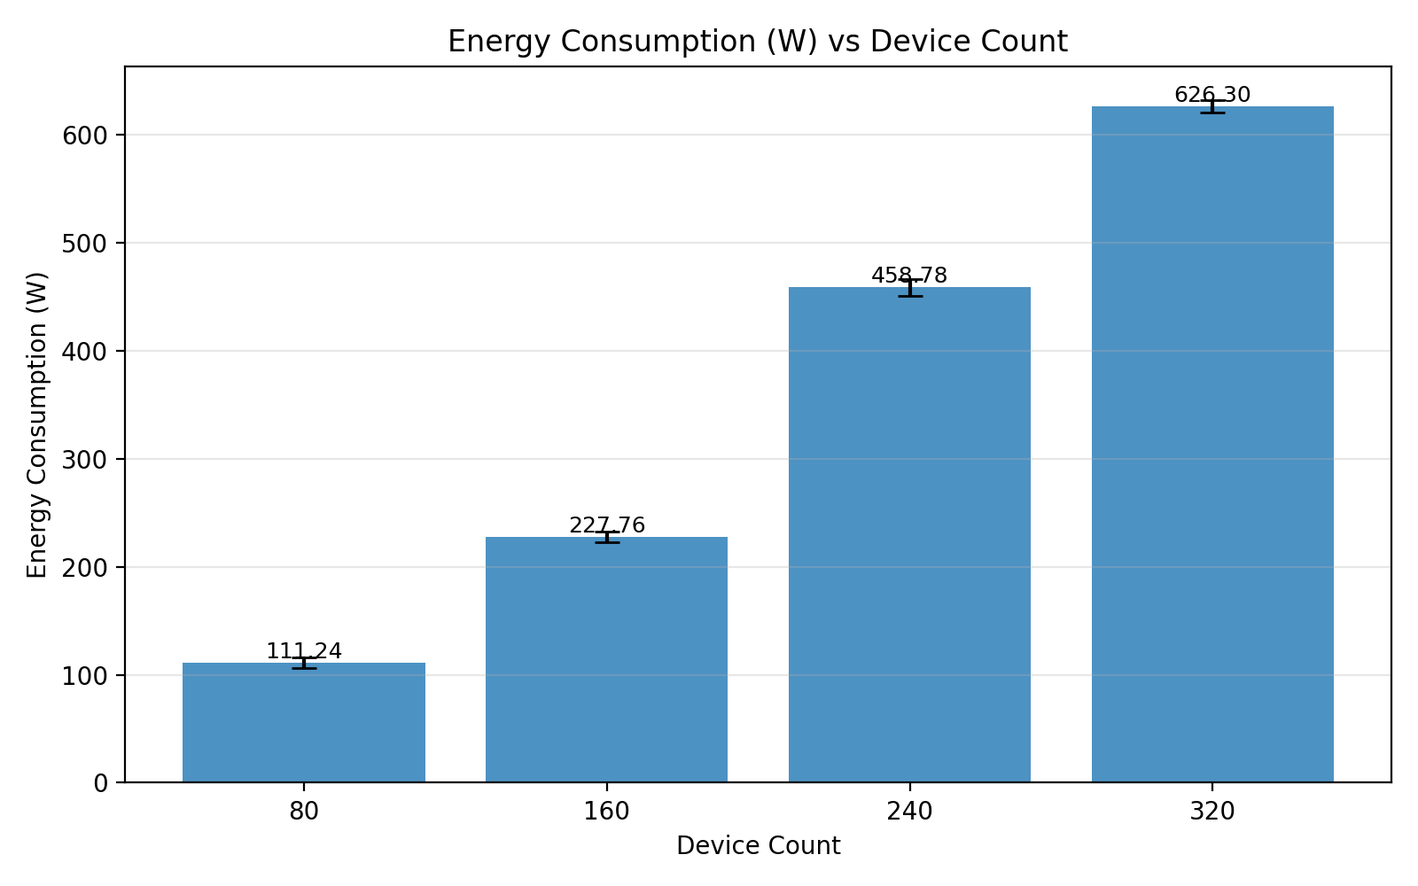
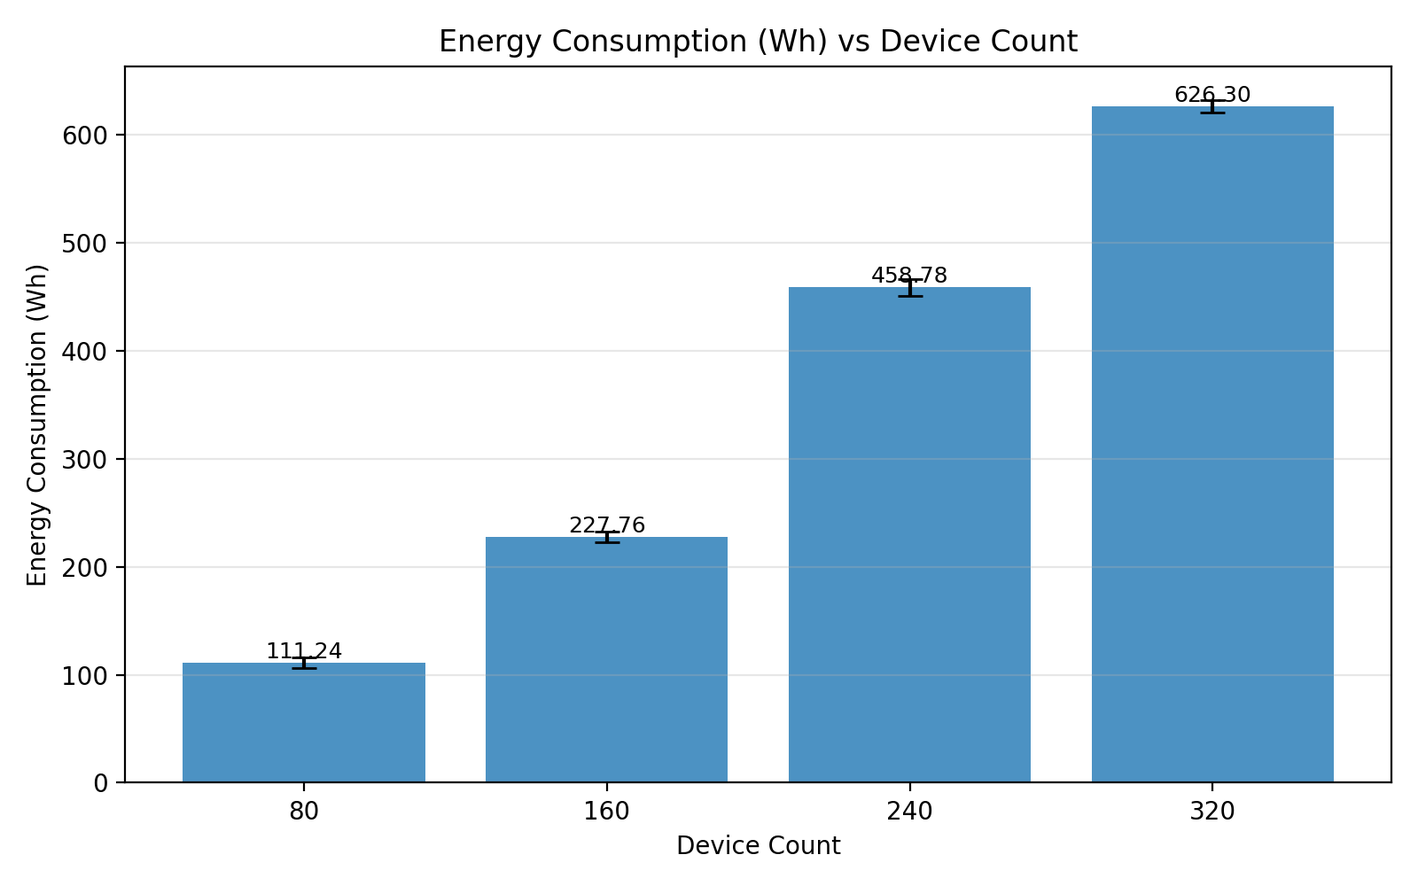
统一能量单位Wh

Changed region(s): [[0.3125, 0.031, 0.7812, 0.062], [0.0, 0.31, 0.0312, 0.651]]

diff --git a/EE5003_Report/contents/result.tex b/EE5003_Report/contents/result.tex
@@ -26,7 +26,7 @@ The full training trajectory is shown in \Figref{fig:mappo-training-progress}. B
     \small
     \begin{tabular}{c|cccc}
         \hline
-        \textbf{Episode} & Success (\%) & Avg. Total Time (s) & Energy (W) & Delay Failures \\
+        \textbf{Episode} & Success (\%) & Avg. Total Time (s) & Energy (Wh) & Delay Failures \\
         \hline
         1  & 57.85 & 5.0108 & 187.1040 & 28193 \\
         5  & 91.96 & 5.0888 & 221.2397 & 5313 \\
@@ -41,7 +41,7 @@ The full training trajectory is shown in \Figref{fig:mappo-training-progress}. B
 \end{table}
 
 \paragraph{Evaluation behavior across seeds.}
-The final MAPPO checkpoint was evaluated on three seeds: 9001, 9002, and 9003. The corresponding success rates are \(99.8901\%\), \(99.9390\%\), and \(99.9421\%\), respectively. The three-seed mean success rate is \(99.9237\%\) with a standard deviation of \(0.0238\). The mean average total time is \(4.5284\,\mathrm{s}\), and the mean energy consumption is \(227.6360\,\mathrm{W}\). These metrics indicate strong cross-seed robustness within the tested setting.
+The final MAPPO checkpoint was evaluated on three seeds: 9001, 9002, and 9003. The corresponding success rates are \(99.8901\%\), \(99.9390\%\), and \(99.9421\%\), respectively. The three-seed mean success rate is \(99.9237\%\) with a standard deviation of \(0.0238\). The mean average total time is \(4.5284\,\mathrm{s}\), and the mean energy consumption is \(227.6360\,\mathrm{Wh}\). These metrics indicate strong cross-seed robustness within the tested setting.
 
 \begin{table}[htbp]
     \centering
@@ -93,7 +93,7 @@ The destination and PRB breakdowns in \Figref{fig:mappo-standard-actions} show t
 \paragraph{Reward and energy analysis.}
 The remaining seed-level charts explain why the converged MAPPO policy remains stable. On the representative seed 9001, the runtime average reward in \Figref{fig:mappo-standard-reward} rises quickly after initialization and then stays tightly clustered around \(4.4\text{--}4.5\), while the exponential moving average remains nearly flat for the rest of the episode. The limited downward fluctuations do not accumulate over time, indicating that unsuccessful decisions are rare and do not destabilize the learned policy over the 30-minute horizon.
 
-The energy summary reported in \Tabref{tab:mappo-seed9001-energy} clarifies where the cost is incurred. For seed 9001, total energy consumption is \(233.0438\,\mathrm{W}\), of which \(223.4854\,\mathrm{W}\) comes from mist/local execution, \(8.9694\,\mathrm{W}\) from edge servers, and only \(0.5890\,\mathrm{W}\) from the cloud. The energy metric is therefore still dominated by the battery-powered device layer even though more than half of the tasks are offloaded to the cloud. In practical terms, cloud offloading mainly relieves deadline pressure, whereas overall energy efficiency is still governed by how many tasks remain on local devices and how aggressively uplink PRBs are reserved.
+The energy summary reported in \Tabref{tab:mappo-seed9001-energy} clarifies where the cost is incurred. For seed 9001, total energy consumption is \(233.0438\,\mathrm{Wh}\), of which \(223.4854\,\mathrm{Wh}\) comes from mist/local execution, \(8.9694\,\mathrm{Wh}\) from edge servers, and only \(0.5890\,\mathrm{Wh}\) from the cloud. The energy metric is therefore still dominated by the battery-powered device layer even though more than half of the tasks are offloaded to the cloud. In practical terms, cloud offloading mainly relieves deadline pressure, whereas overall energy efficiency is still governed by how many tasks remain on local devices and how aggressively uplink PRBs are reserved.
 
 \begin{figure}[htbp]
     \centering
@@ -107,12 +107,12 @@ The energy summary reported in \Tabref{tab:mappo-seed9001-energy} clarifies wher
     \small
     \renewcommand{\arraystretch}{1.15}
     \begin{tabularx}{0.92\textwidth}{l|c|X}
-        \textbf{Component} & \textbf{Energy (W)} & \textbf{Average} \\
+        \textbf{Component} & \textbf{Energy (Wh)} & \textbf{Average} \\
         \hline
-        Total & \(233.0438\) & \(1.4124\,\mathrm{W}\) per data center or device; \(0.0035\,\mathrm{W}\) per task \\
-        Cloud & \(0.5890\) & \(0.5890\,\mathrm{W}\) per data center \\
-        Edge & \(8.9694\) & \(2.2424\,\mathrm{W}\) per data center \\
-        Mist & \(223.4854\) & \(1.3968\,\mathrm{W}\) per edge device \\
+        Total & \(233.0438\) & \(1.4124\,\mathrm{Wh}\) per data center or device; \(0.0035\,\mathrm{Wh}\) per task \\
+        Cloud & \(0.5890\) & \(0.5890\,\mathrm{Wh}\) per data center \\
+        Edge & \(8.9694\) & \(2.2424\,\mathrm{Wh}\) per data center \\
+        Mist & \(223.4854\) & \(1.3968\,\mathrm{Wh}\) per edge device \\
     \end{tabularx}
     \caption{Energy summary for the representative evaluation seed 9001.}
     \label{tab:mappo-seed9001-energy}
@@ -178,7 +178,7 @@ To evaluate the scalability of the proposed MAPPO framework, a device-count abla
     \small
     \begin{tabular}{c|cccccc}
         \hline
-        \textbf{Devices} & \textbf{Decisions} & \textbf{Success (\%)} & \textbf{Time (s)} & \textbf{Energy (W)} & \textbf{Delay Fail} & \textbf{Reward} \\
+        \textbf{Devices} & \textbf{Decisions} & \textbf{Success (\%)} & \textbf{Time (s)} & \textbf{Energy (Wh)} & \textbf{Delay Fail} & \textbf{Reward} \\
         \hline
         80  & 33\,639  & 99.75 & 3.45 & 111.24 & 86    & 151\,057 \\
         160 & 67\,016  & 99.77 & 4.87 & 227.76 & 154   & 290\,588 \\
@@ -190,7 +190,7 @@ To evaluate the scalability of the proposed MAPPO framework, a device-count abla
     \label{tab:ablation-devices-eval}
 \end{table}
 
-From 80 to 240 devices, the per-agent reward remains consistently positive and the success rate stays above \(99.4\%\), indicating that MAPPO effectively coordinates an increasing number of agents without degrading individual decision quality. The total reward scales roughly in proportion to the number of decisions, confirming that each additional agent contributes positively. Average total time increases moderately from \(3.45\,\mathrm{s}\) to \(5.80\,\mathrm{s}\), which is expected as more agents compete for shared edge and cloud resources. Energy consumption also scales proportionally with device count, reflecting the additional mist-layer power draw from more active devices.
+From 80 to 240 devices, the per-agent reward remains consistently positive and the success rate stays above \(99.4\%\), indicating that MAPPO effectively coordinates an increasing number of agents without degrading individual decision quality. The total reward scales roughly in proportion to the number of decisions, confirming that each additional agent contributes positively. Average total time increases moderately from \(3.45\,\mathrm{s}\) to \(5.80\,\mathrm{s}\), which is expected as more agents compete for shared edge and cloud resources. Energy consumption also scales proportionally with device count, reflecting the additional mist-layer energy usage from more active devices.
 
 \Figref{fig:ablation-devices-success-time} visualizes the task success rate and average total time across device counts. The success rate remains flat near \(100\%\) for the first three configurations before dropping sharply at 320 devices, while the average total time increases gradually and then jumps at 320 devices.
 
@@ -231,7 +231,7 @@ The evidence for infrastructure saturation is visible in the learned policy's be
     \label{tab:ablation-devices-destination}
 \end{table}
 
-\Figref{fig:ablation-devices-energy-reward} shows the energy consumption and evaluation reward across device counts. Energy scales roughly linearly from 80 to 320 devices, reflecting the proportional increase in mist-layer power draw. The evaluation reward, however, turns sharply negative at 320 devices, confirming that the policy cannot generate net positive value when infrastructure capacity is exhausted.
+\Figref{fig:ablation-devices-energy-reward} shows the energy consumption and evaluation reward across device counts. Energy scales roughly linearly from 80 to 320 devices, reflecting the proportional increase in mist-layer energy usage. The evaluation reward, however, turns sharply negative at 320 devices, confirming that the policy cannot generate net positive value when infrastructure capacity is exhausted.
 
 \begin{figure}[h]
     \centering
@@ -265,7 +265,7 @@ Two controlled ablations were conducted under the same 40-episode, 30-minute, 16
     \renewcommand{\arraystretch}{1.15}
     \begin{tabular}{@{}lccccc@{}}
         \hline
-        \textbf{Variant} & \shortstack{\textbf{Success}\\\textbf{(\%)}} & \textbf{Std.} & \shortstack{\textbf{Total Time}\\\textbf{(s)}} & \shortstack{\textbf{Energy}\\\textbf{(W)}} & \shortstack{\textbf{Delay}\\\textbf{Failures}} \\
+        \textbf{Variant} & \shortstack{\textbf{Success}\\\textbf{(\%)}} & \textbf{Std.} & \shortstack{\textbf{Total Time}\\\textbf{(s)}} & \shortstack{\textbf{Energy}\\\textbf{(Wh)}} & \shortstack{\textbf{Delay}\\\textbf{Failures}} \\
         \hline
         MAPPO & \textbf{99.9237} & \textbf{0.0238} & 4.5284 & \textbf{227.6360} & \textbf{48.00} \\
         NoEmbedding & 99.8148 & 0.0245 & \textbf{4.4991} & 227.7301 & 123.00 \\
@@ -311,7 +311,7 @@ The representative seed-9001 charts in \Figref{fig:noembedding-run-summary}, \Fi
 \end{figure}
 
 \paragraph{FixedPRB: structural failure of the joint scheduler.}
-The FixedPRB ablation changes the outcome qualitatively. Training improves only from \(55.90\%\) to \(91.52\%\) success across the 40 episodes and plateaus there rather than entering the near-perfect regime. In evaluation, mean success collapses to \(92.3822\%\), mean energy jumps to \(309.2645\,\mathrm{W}\), and mean delay failures rise to \(5127.67\). Unlike NoEmbedding, this is not a small regularization effect; it is a direct loss of scheduling capability. The simulator also becomes much faster to run at \(145.41\,\mathrm{s}\) per episode on average, but this speedup is associated with a simpler yet substantially poorer operating regime.
+The FixedPRB ablation changes the outcome qualitatively. Training improves only from \(55.90\%\) to \(91.52\%\) success across the 40 episodes and plateaus there rather than entering the near-perfect regime. In evaluation, mean success collapses to \(92.3822\%\), mean energy jumps to \(309.2645\,\mathrm{Wh}\), and mean delay failures rise to \(5127.67\). Unlike NoEmbedding, this is not a small regularization effect; it is a direct loss of scheduling capability. The simulator also becomes much faster to run at \(145.41\,\mathrm{s}\) per episode on average, but this speedup is associated with a simpler yet substantially poorer operating regime.
 
 The representative seed-9001 charts in \Figref{fig:fixedprb-run-summary}, \Figref{fig:fixedprb-reward}, and \Figref{fig:fixedprb-actions} reveal the mechanism. The run-summary chart is dominated by the failed-delay bar, and the reward timeline becomes highly oscillatory with dense negative excursions, showing that bad decisions are frequent throughout the episode rather than confined to a few isolated events. The destination distribution also collapses to a two-way split: \(43.37\%\) local and \(42.29\%\) cloud, with the four edge nodes together receiving only \(14.35\%\) of selections. Most decisively, the PRB distribution degenerates to a single point mass, with \(100\%\) of offloaded tasks using \(10\) blocks by construction. Read against the full MAPPO seed-9001 distribution, this is a strong restriction: the learned policy normally uses \(1\) block for most offloads and expands to \(10\) or \(20\) blocks only when needed. Fixing every offloaded task at \(10\) blocks therefore creates a systematic mismatch, being too conservative for hard transfers and too wasteful for easy ones. The result is a system that underuses edge resources, overconsumes mist energy, and accumulates thousands of deadline misses even though fallback, mobility, and network failures remain at zero.
 
@@ -419,9 +419,9 @@ Taken together, the ablations identify adaptive PRB control as the dominant cont
 \subsection{Comparison between Reinforcement Learning and Baseline Algorithms}
 \label{subsec:rl-vs-baselines}
 
-The offline all-algorithm comparison shows that the reinforcement-learning policies outperform the heuristic baselines under the standard 160-device setting. MAPPO achieves the highest task success rate at \(99.96\%\), followed closely by PPO at \(99.94\%\). The strongest heuristic remains ROUND\_ROBIN at \(90.39\%\), which is still far below both learned policies. These gains are not obtained simply by spending more energy: MAPPO and PPO both use about \(231.3\,\mathrm{W}\), which is substantially lower than ROUND\_ROBIN's \(298.26\,\mathrm{W}\).
+The offline all-algorithm comparison shows that the reinforcement-learning policies outperform the heuristic baselines under the standard 160-device setting. MAPPO achieves the highest task success rate at \(99.96\%\), followed closely by PPO at \(99.94\%\). The strongest heuristic remains ROUND\_ROBIN at \(90.39\%\), which is still far below both learned policies. These gains are not obtained simply by spending more energy: MAPPO and PPO both use about \(231.3\,\mathrm{Wh}\), which is substantially lower than ROUND\_ROBIN's \(298.26\,\mathrm{Wh}\).
 
-\Tabref{tab:baseline-comparison} lists the main metrics for all 10 algorithms, while \Figref{fig:baseline-comparison} visualizes the same comparison. Several patterns are worth emphasizing. First, MAPPO improves success rate by \(9.58\) percentage points over ROUND\_ROBIN while also reducing average total time by \(1.2750\,\mathrm{s}\) and energy consumption by \(67.00\,\mathrm{W}\). Second, compared with PPO, MAPPO is slightly more reliable and slightly lower in energy, whereas PPO is slightly faster in average total time by \(0.0670\,\mathrm{s}\). Third, CLOUD appears attractive in latency and energy, yet its success rate remains only \(64.64\%\), so it is not a viable scheduling policy when completion reliability matters. Fourth, LOCAL fails mainly because 33,630 tasks cannot be executed under local-only capacity constraints, which highlights the need for coordinated multi-tier offloading.
+\Tabref{tab:baseline-comparison} lists the main metrics for all 10 algorithms, while \Figref{fig:baseline-comparison} visualizes the same comparison. Several patterns are worth emphasizing. First, MAPPO improves success rate by \(9.58\) percentage points over ROUND\_ROBIN while also reducing average total time by \(1.2750\,\mathrm{s}\) and energy consumption by \(67.00\,\mathrm{Wh}\). Second, compared with PPO, MAPPO is slightly more reliable and slightly lower in energy, whereas PPO is slightly faster in average total time by \(0.0670\,\mathrm{s}\). Third, CLOUD appears attractive in latency and energy, yet its success rate remains only \(64.64\%\), so it is not a viable scheduling policy when completion reliability matters. Fourth, LOCAL fails mainly because 33,630 tasks cannot be executed under local-only capacity constraints, which highlights the need for coordinated multi-tier offloading.
 
 \begin{table}[htbp]
     \centering
@@ -429,7 +429,7 @@ The offline all-algorithm comparison shows that the reinforcement-learning polic
     \resizebox{\textwidth}{!}{%
     \begin{tabular}{l|cccccc}
         \hline
-        \textbf{Algorithm} & \textbf{Success (\%)} & \textbf{Avg.\ Total Time (s)} & \textbf{Energy (W)} & \textbf{Delay Failures} & \textbf{Avg.\ CPU (\%)} & \textbf{Avg.\ BW (Mbps)} \\
+        \textbf{Algorithm} & \textbf{Success (\%)} & \textbf{Avg.\ Total Time (s)} & \textbf{Energy (Wh)} & \textbf{Delay Failures} & \textbf{Avg.\ CPU (\%)} & \textbf{Avg.\ BW (Mbps)} \\
         \hline
         RANDOM            & 41.05 & 4.5641 & 149.39 & 39\,630 &  6.56 & 50.79 \\
         LOCAL             & 45.36 & 7.3408 & 256.77 &  3\,133 & 41.03 & --    \\
@@ -602,7 +602,7 @@ PPO deserves one final note as the strongest learning-based baseline in this stu
     \setlength{\tabcolsep}{4pt}
     \begin{tabular}{l|ccccc}
         \hline
-        \textbf{Model} & \textbf{Mean Success (\%)} & \textbf{Std.} & \textbf{Mean Time (s)} & \textbf{Mean Energy (W)} & \textbf{Train Time (s/ep)} \\
+        \textbf{Model} & \textbf{Mean Success (\%)} & \textbf{Std.} & \textbf{Mean Time (s)} & \textbf{Mean Energy (Wh)} & \textbf{Train Time (s/ep)} \\
         \hline
         MAPPO & 99.9237 & 0.0238 & 4.5284 & 227.6360 & 227.74 \\
         PPO & 99.9436 & 0.0137 & 4.4665 & 227.5745 & 223.48 \\

diff --git a/EE5003_Report/regenerate_energy_figures.py b/EE5003_Report/regenerate_energy_figures.py
@@ -1,0 +1,158 @@
+from __future__ import annotations
+
+import csv
+import json
+import shutil
+import sys
+import tempfile
+from pathlib import Path
+from typing import Dict, Iterable, List
+
+import matplotlib
+
+matplotlib.use("Agg")
+import matplotlib.pyplot as plt
+import numpy as np
+
+
+ROOT = Path(__file__).resolve().parent.parent
+FIGURES_DIR = ROOT / "EE5003_Report" / "figures"
+MAPPO_DIR = ROOT / "PureEdgeSim" / "pruebas" / "mappo"
+if str(MAPPO_DIR) not in sys.path:
+    sys.path.insert(0, str(MAPPO_DIR))
+
+from analyze_mappo import analyze_episode
+
+
+def regenerate_all() -> None:
+    FIGURES_DIR.mkdir(parents=True, exist_ok=True)
+    _regenerate_analysis_energy_figure(
+        trajectory_path=ROOT
+        / "Results"
+        / "ablation_NoEmbedding"
+        / "trajectories"
+        / "mappo_trajectories_20260318_115419_532_pid88704_db7bc0.csv",
+        results_dir=ROOT / "Results" / "ablation_NoEmbedding" / "eval" / "base" / "seed_9001" / "episode_001",
+        target_path=FIGURES_DIR / "noembedding_energy_consumption.png",
+    )
+    _regenerate_analysis_energy_figure(
+        trajectory_path=ROOT
+        / "Results"
+        / "ablation_FixedPRB"
+        / "train_run_20260318_091806"
+        / "trajectories"
+        / "mappo_trajectories_20260318_105838_728_pid1084254_794451.csv",
+        results_dir=ROOT
+        / "Results"
+        / "ablation_FixedPRB"
+        / "train_run_20260318_091806"
+        / "eval"
+        / "base"
+        / "seed_9001"
+        / "episode_001",
+        target_path=FIGURES_DIR / "fixedprb_energy_consumption.png",
+    )
+    _regenerate_ablation_devices_energy_figure(
+        summary_path=ROOT / "Results" / "ablation_devices" / "comparison" / "ablation_results.json",
+        target_path=FIGURES_DIR / "ablation_devices_energy.png",
+    )
+    _regenerate_baseline_comparison_figure(
+        csv_path=ROOT / "Results" / "compare_2026-03-17_14-21-45" / "Sequential_simulation.csv",
+        target_path=FIGURES_DIR / "baseline_comparison_metrics.png",
+    )
+
+
+def _regenerate_analysis_energy_figure(trajectory_path: Path, results_dir: Path, target_path: Path) -> None:
+    if not trajectory_path.is_file():
+        raise FileNotFoundError(f"Trajectory not found: {trajectory_path}")
+    if not results_dir.is_dir():
+        raise FileNotFoundError(f"Results directory not found: {results_dir}")
+
+    with tempfile.TemporaryDirectory(prefix="paper_energy_") as tmp:
+        tmp_dir = Path(tmp)
+        analyze_episode(trajectory_path, results_dir, tmp_dir)
+        shutil.copyfile(tmp_dir / "energy_consumption.png", target_path)
+
+
+def _regenerate_ablation_devices_energy_figure(summary_path: Path, target_path: Path) -> None:
+    payload = json.loads(summary_path.read_text(encoding="utf-8"))
+    device_counts: List[int] = []
+    means: List[float] = []
+    stds: List[float] = []
+
+    for item in payload:
+        device_counts.append(int(item["device_count"]))
+        values = [float(seed["summary_metrics"]["energy_consumption_w"]) for seed in item["eval_summaries"]]
+        means.append(float(np.mean(values)) if values else 0.0)
+        stds.append(float(np.std(values)) if len(values) > 1 else 0.0)
+
+    fig, ax = plt.subplots(figsize=(8, 5))
+    x = np.arange(len(device_counts))
+    bars = ax.bar(x, means, yerr=stds, capsize=5, color="#1f77b4", alpha=0.8)
+    ax.set_xticks(x)
+    ax.set_xticklabels([str(count) for count in device_counts])
+    ax.set_xlabel("Device Count")
+    ax.set_ylabel("Energy Consumption (Wh)")
+    ax.set_title("Energy Consumption (Wh) vs Device Count")
+    ax.grid(True, axis="y", alpha=0.3)
+    for bar, mean in zip(bars, means):
+        ax.text(bar.get_x() + bar.get_width() / 2, bar.get_height(), f"{mean:.2f}", ha="center", va="bottom", fontsize=9)
+    fig.tight_layout()
+    fig.savefig(target_path, dpi=200)
+    plt.close(fig)
+
+
+def _regenerate_baseline_comparison_figure(csv_path: Path, target_path: Path) -> None:
+    rows = _read_rows(csv_path)
+    algorithm_order = [
+        "RANDOM",
+        "LOCAL",
+        "EDGE",
+        "CLOUD",
+        "ROUND_ROBIN",
+        "TRADE_OFF",
+        "LATENCY_ENERGY_AWARE",
+        "TEST",
+        "PPO",
+        "MAPPO",
+    ]
+    rows_by_algorithm = {row["Orchestration algorithm"].strip(): row for row in rows}
+    ordered_rows = [rows_by_algorithm[name] for name in algorithm_order]
+    labels = [row["Orchestration algorithm"].strip().replace("_", "\n") for row in ordered_rows]
+    success = [float(row["Tasks success rate"]) for row in ordered_rows]
+    total_time = [float(row["Average total time (s)"]) for row in ordered_rows]
+    energy = [float(row["Energy consumption (W)"]) for row in ordered_rows]
+    colors = ["#9aa5b1"] * 8 + ["#2ca02c", "#1f77b4"]
+
+    fig, axes = plt.subplots(1, 3, figsize=(14, 5))
+    metrics = [
+        ("Success Rate (%)", success),
+        ("Avg Total Time (s)", total_time),
+        ("Energy Consumption (Wh)", energy),
+    ]
+
+    for ax, (title, values) in zip(axes, metrics):
+        bars = ax.bar(np.arange(len(labels)), values, color=colors, alpha=0.9)
+        ax.set_title(title)
+        ax.set_xticks(np.arange(len(labels)))
+        ax.set_xticklabels(labels, rotation=40, ha="right")
+        ax.grid(True, axis="y", alpha=0.25)
+        ymax = max(values) if values else 0.0
+        for bar, value in zip(bars, values):
+            offset = max(0.4, ymax * 0.01)
+            fmt = f"{value:.2f}" if ymax < 1000 else f"{value:.0f}"
+            ax.text(bar.get_x() + bar.get_width() / 2, value + offset, fmt, ha="center", va="bottom", fontsize=8, rotation=90)
+
+    fig.tight_layout()
+    fig.savefig(target_path, dpi=200)
+    plt.close(fig)
+
+
+def _read_rows(csv_path: Path) -> List[Dict[str, str]]:
+    with csv_path.open("r", encoding="utf-8", newline="") as handle:
+        reader = csv.DictReader(handle)
+        return list(reader)
+
+
+if __name__ == "__main__":
+    regenerate_all()

diff --git a/EE5003_Report/contents/system-model.tex b/EE5003_Report/contents/system-model.tex
@@ -135,12 +135,12 @@ E_{\mathrm{rx}} = E_{\mathrm{elec}} \cdot B.
 Both \(E_{\mathrm{tx}}\) and \(E_{\mathrm{rx}}\) are converted from joules to watt-hours and accumulated into the respective device's wireless energy counter. Each task-level transfer triggers energy updates on both the sender and the receiver at every communication phase.
 
 \paragraph{CPU computation energy.}
-Each device consumes CPU energy according to a linear utilization model. Let \(P_{\mathrm{idle}}\) and \(P_{\mathrm{max}}\) denote the idle and maximum active power consumption of the device (in Wh per hour), respectively. When a task begins execution, the energy model updates the host device's CPU energy by
+Each device consumes CPU energy according to a linear utilization model. Let \(P_{\mathrm{idle}}\) and \(P_{\mathrm{max}}\) denote the idle and maximum active power consumption of the device, measured in watts, respectively. When a task begins execution, the energy model updates the host device's CPU energy by
 \begin{align}
 \Delta E_{\mathrm{cpu}} = \frac{P_{\mathrm{idle}} + (P_{\mathrm{max}} - P_{\mathrm{idle}}) \cdot u}{3600} \cdot \Delta t,
 \label{eq:energy-cpu}
 \end{align}
-where \(u = L / M_{\mathrm{total}}\) is the instantaneous CPU utilization contributed by the task (\(L\) is the task length in MI, \(M_{\mathrm{total}}\) is the total MIPS of the data center), and \(\Delta t\) is the update interval in seconds. The total device energy is the sum of the wireless and CPU components:
+where \(u = L / M_{\mathrm{total}}\) is the instantaneous CPU utilization contributed by the task (\(L\) is the task length in MI, \(M_{\mathrm{total}}\) is the total MIPS of the data center), and \(\Delta t\) is the update interval in seconds. The factor \(1/3600\) converts watt-seconds into watt-hours over the simulation update interval. The total device energy is the sum of the wireless and CPU components:
 \begin{align}
 E_{\mathrm{total}} = E_{\mathrm{cpu}} + E_{\mathrm{wireless}}.
 \label{eq:energy-total}

diff --git a/PureEdgeSim/pruebas/mappo/analyze_mappo.py b/PureEdgeSim/pruebas/mappo/analyze_mappo.py
@@ -25,6 +25,8 @@ SUMMARY_KEYS = {
     "average_execution_delay_s": ("Average execution delay (s)",),
     "average_total_time_s": ("Average total time (s)",),
     "average_real_total_time_s": ("Average real total time (s)",),
+    # Historical CSV headers still say "(W)", but the stored values are
+    # cumulative energy totals used throughout the paper.
     "energy_consumption_w": ("Energy consumption (W)",),
     "cloud_energy_consumption_w": ("Cloud energy consumption (W)",),
     "edge_energy_consumption_w": ("Edge energy consumption (W)",),
@@ -397,7 +399,8 @@ def _plot_energy_summary(summary_metrics: Dict[str, float], output_path: Path) -
     ]
     fig, ax = plt.subplots(figsize=(8, 5))
     ax.bar(labels, values, color="#9467bd")
-    ax.set_title("Energy Consumption (W)")
+    ax.set_title("Energy Consumption (Wh)")
+    ax.set_ylabel("Energy (Wh)")
     ax.grid(True, axis="y", alpha=0.3)
     fig.tight_layout()
     fig.savefig(output_path, dpi=200)

diff --git a/PureEdgeSim/pruebas/mappo/ablation_devices.py b/PureEdgeSim/pruebas/mappo/ablation_devices.py
@@ -452,7 +452,7 @@ def generate_comparison(results: List[AblationResult], output_dir: Path) -> None
     metric_keys = [
         ("tasks_success_rate", "Task Success Rate (%)"),
         ("average_total_time_s", "Avg Total Time (s)"),
-        ("energy_consumption_w", "Energy Consumption (W)"),
+        ("energy_consumption_w", "Energy Consumption (Wh)"),
         ("tasks_failed_delay", "Tasks Failed (delay)"),
         ("tasks_failed_network", "Tasks Failed (network)"),
     ]
